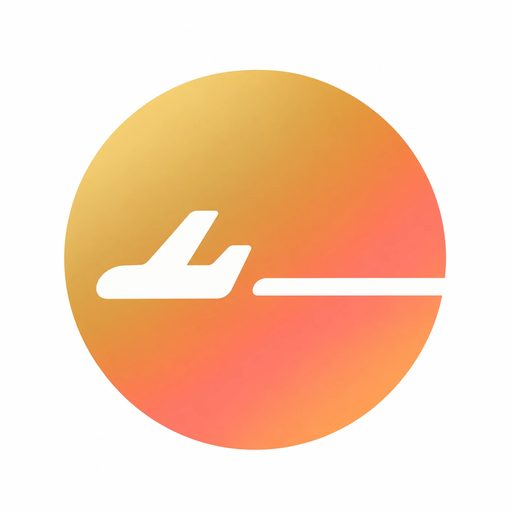
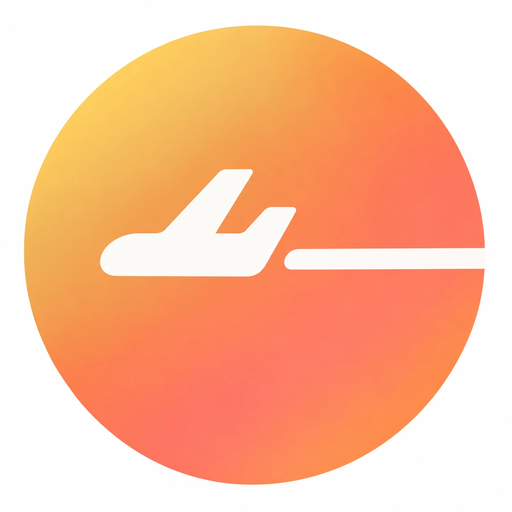
主圖示換成新的橙色漸層圖 (v2026.10.30.27)

Changed region(s): [[0.0312, 0.0312, 0.9688, 0.9688], [0.5625, 0.2812, 0.625, 0.3125]]

diff --git a/app.js b/app.js
@@ -4,7 +4,7 @@
 ═══════════════════════════════════════ */
 
 /* 版本號：顯示在「設定」頁最下方，每次推送更新時一起遞增，用來確認手機拿到的是不是最新版 */
-const APP_VERSION = '2026.10.30.26';
+const APP_VERSION = '2026.10.30.27';
 
 /* ─── SVG Icon Strings ─── */
 const EDIT_SVG  = `<svg xmlns="http://www.w3.org/2000/svg" viewBox="0 -960 960 960"><path d="M200-200h57l391-391-57-57-391 391v57Zm-80 80v-170l528-527q12-11 26.5-17t30.5-6q16 0 31 6t26 18l55 56q12 11 17.5 26t5.5 30q0 16-5.5 30.5T817-647L290-120H120Zm640-584-56-56 56 56Zm-141 85-28-29 57 57-29-28Z"/></svg>`;

diff --git a/index.html b/index.html
@@ -8,8 +8,8 @@
   <meta name="apple-mobile-web-app-title" content="旅遊誌">
   <meta name="theme-color" content="#ffffff">
   <link rel="manifest" href="manifest.json">
-  <link rel="apple-touch-icon" href="icon-512.png?v=11">
-  <link rel="icon" type="image/png" sizes="192x192" href="icon-192.png?v=11">
+  <link rel="apple-touch-icon" href="icon-512.png?v=12">
+  <link rel="icon" type="image/png" sizes="192x192" href="icon-192.png?v=12">
   <title>旅遊誌</title>
   <link rel="stylesheet" href="style.css">
 </head>
